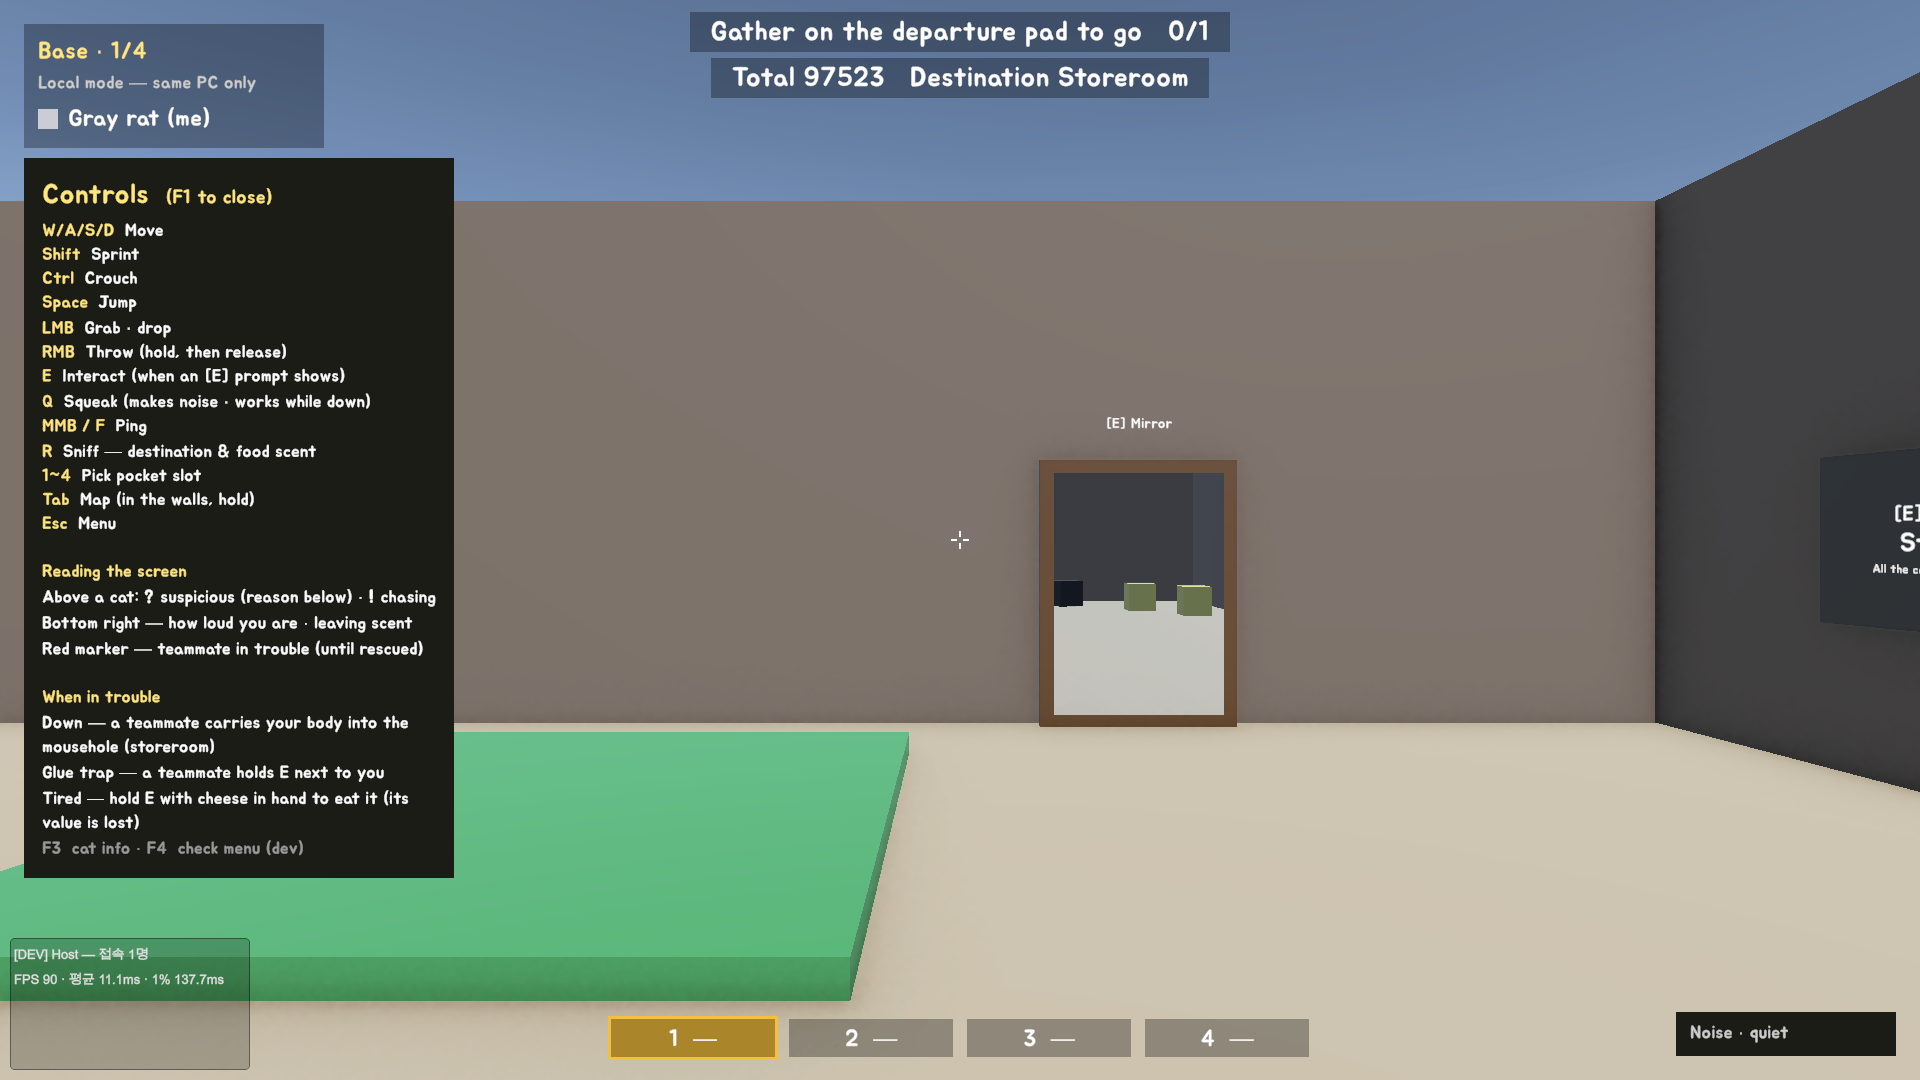
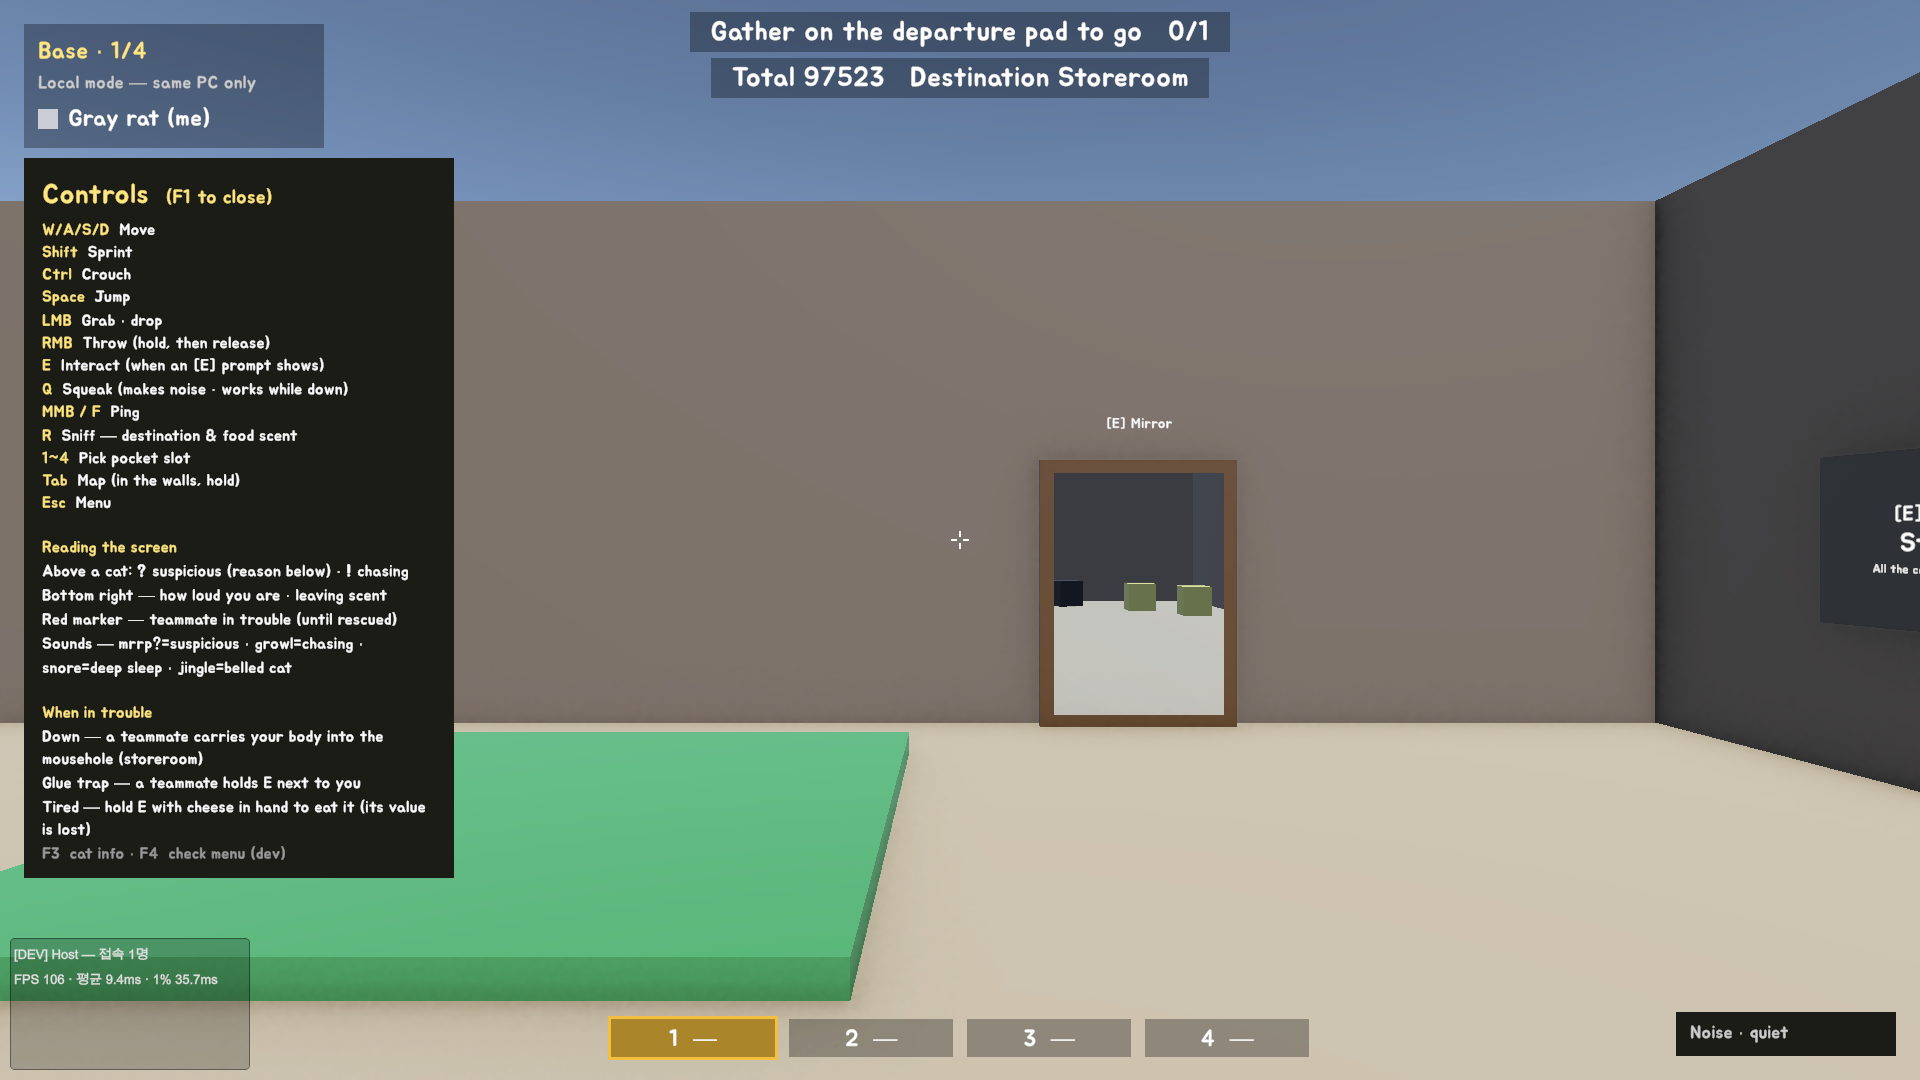
[ui] F1 화면 읽기에 소리 한 줄(냐?·그르렁·드르렁·딸랑), 한·영 패널 안 (고양이 311)

Changed region(s): [[0.0, 0.1833, 0.2188, 0.7944], [0.0312, 0.8861, 0.125, 0.9167]]

diff --git a/Assets/_Project/Scripts/UI/ControlsHelpWidget.cs b/Assets/_Project/Scripts/UI/ControlsHelpWidget.cs
@@ -92,6 +92,7 @@ namespace RatGame.UI
             sb.Append(Loc.T("고양이 위 <b>?</b> 의심(밑에 이유) · <b>!</b> 추격")).Append('\n');
             sb.Append(Loc.T("오른쪽 아래 — 내 소리 크기 · 냄새 남기는 중")).Append('\n');
             sb.Append(Loc.T("빨간 표시 — 위기인 동료(구해질 때까지)")).Append('\n');
+            sb.Append(Loc.T("소리 — 냐?=의심 · 그르렁=추격 · 드르렁=깊은 잠 · 딸랑=방울 단 고양이")).Append('\n'); // 보이지 않는 고양이는 소리로 (docs/07, 고양이 311)
             // 위기 때 — 쓰러짐·끈끈이에서 돌아오는 길 (고양이 188, 181~187 흐름)
             sb.Append('\n').Append("<color=").Append(key).Append(">").Append(Loc.T("위기 때")).Append("</color>\n");
             sb.Append(Loc.T("쓰러짐 — 동료가 몸을 쥐구멍(창고)에 넣으면 삶")).Append('\n');

diff --git a/Assets/_Project/Scripts/Editor/LocalizationTools.Strings2.cs b/Assets/_Project/Scripts/Editor/LocalizationTools.Strings2.cs
@@ -9,6 +9,7 @@ namespace RatGame.EditorTools
         {
             // 결과 화면
             ["지치면 — 손에 든 치즈를 E 길게로 먹기 (값은 사라짐)"] = "Tired — hold E with cheese in hand to eat it (its value is lost)",
+            ["소리 — 냐?=의심 · 그르렁=추격 · 드르렁=깊은 잠 · 딸랑=방울 단 고양이"] = "Sounds — mrrp?=suspicious · growl=chasing · snore=deep sleep · jingle=belled cat",
             // 의심 이유 (고양이 305)
             ["봤다"] = "saw you",
             ["발소리"] = "footsteps",

diff --git a/production/2026-09-25-work-overview.md b/production/2026-09-25-work-overview.md
@@ -267,6 +267,7 @@
 | 308 | 정리 — PlayerController.cs 300→222(비틀·순간이동·바닥 기다리기·떨어짐 구조를 .Teleport로, RPC 포함). 새 빌드로 운반·구조·4인 던지기 통과. 추격 2인이 한 번 호스트를 잡아 실패 → 시험 동안 호스트를 숨김 상태로, 3연속 통과 | — (정리·시험) |
 | 309 | Run Everything 19종 18/19 — 1인 추격이 게으름뱅이 고양이가 잠들어 3분 초과 → 자는 고양이도 깨우고 1.5m 앞에, "포획 뒤 복귀"는 Capture→Chase→Return도 인정. 4연속 통과 | — (시험) |
 | 310 | F1 조작 도움말 대조(키 설정을 그대로 읽어 일치) + "지치면 — 손에 든 치즈를 E 길게로 먹기" 한 줄(들어야만 뜨는 안내라 몰랐음). 한·영 스크린샷 `cat-310/` — 영어는 두 줄로 접혀도 패널 안, 번역 431줄 | U-77 |
+| 311 | F1 "화면 읽기"에 소리 한 줄 — 냐?=의심·그르렁=추격·드르렁=깊은 잠·딸랑=방울 단 고양이. 한·영 패널 안(`cat-310/` 갱신), 번역 432줄 | U-77 |
 | 188 | F1 안내에 "위기 때" 두 줄 + 상호작용·찍찍 설명, 글자 줄어듦 막으려 패널 세로 720 | U-188 |
 
 ---

diff --git a/production/loop-state.md b/production/loop-state.md
@@ -1,6 +1,6 @@
 # 자율 개발 루프 상태 (매 틱 시작 때 읽고, 단계가 바뀔 때마다 갱신)
 
-## ▶ 지금 (2026-09-30 오후, 고양이 310까지)
+## ▶ 지금 (2026-09-30 오후, 고양이 311까지)
 - 크론 8db17288 `2-59/5` (이 세션). 사용자 지시(10:5x): **멈추라고 할 때까지 멈추지 마 — 한 단계 끝나면 틱 기다리지 말고 바로 다음 단계.**
 - **사용자 판단 대기**: 체크리스트 맨 아래 판단 부탁 1~14 (13 대형 운반, 14 도전과제 보상·모자·ach_rich·ach_troll). 이것들 전엔 운반 물리·스킨 잠금 손대지 않음.
 - **사람만**: Windows 빌드 모듈 설치(없어서 데모 목표 빌드 불가), 에디터 재시작(7777 누수 — 시험은 7778로 돔).
